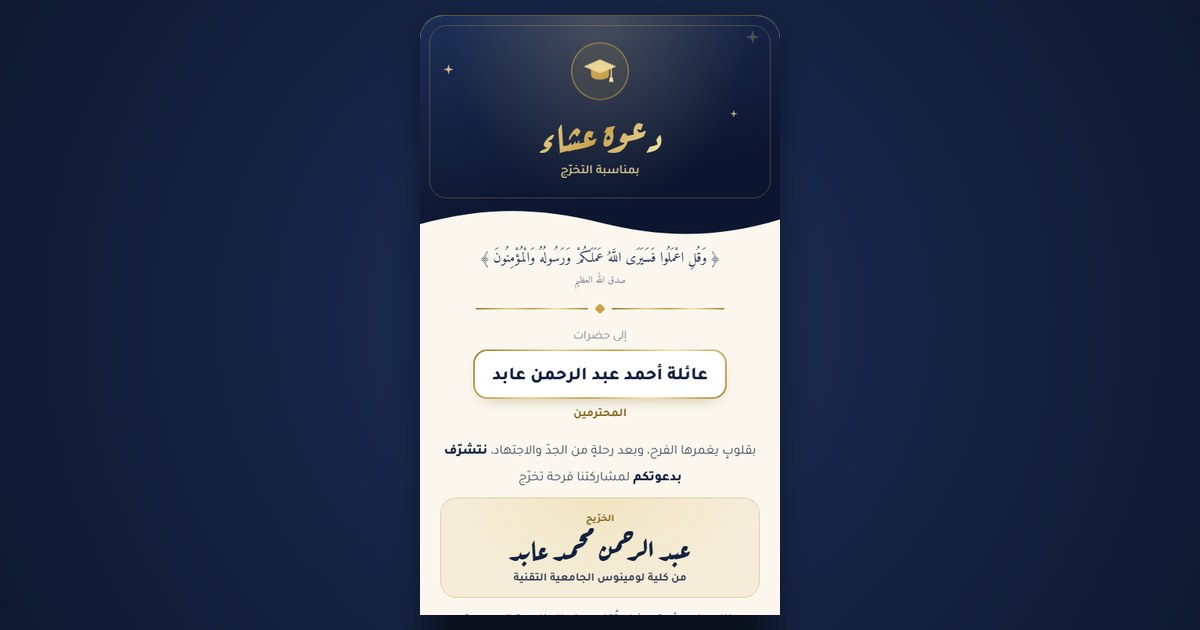
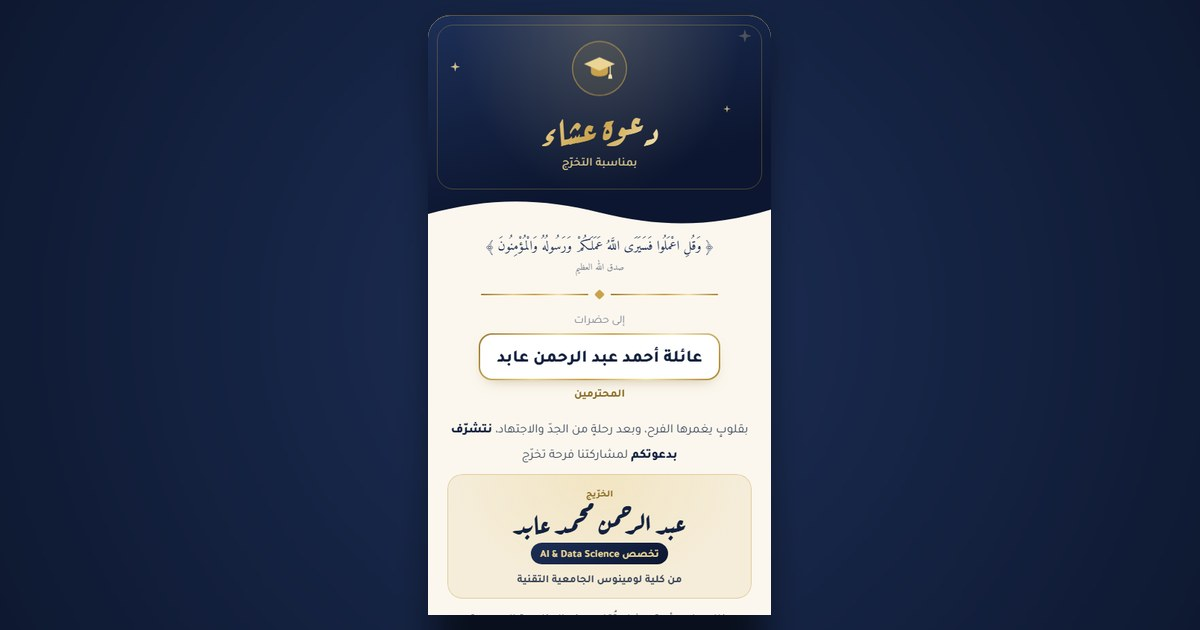
Add graduate major to invitation card

diff --git a/index.html b/index.html
@@ -193,6 +193,15 @@
       line-height: 1.45;
       color: var(--ink);
     }
+    .grad-major {
+      display: inline-block;
+      margin: 2px 0 8px;
+      padding: 4px 12px;
+      border-radius: 999px;
+      font-size: .88rem; font-weight: 700;
+      color: var(--gold-light);
+      background: linear-gradient(150deg, var(--navy-700), var(--navy-900));
+    }
     .grad-from { display: block; font-size: .92rem; font-weight: 700; color: var(--text); }
 
     /* التفاصيل */
@@ -381,6 +390,8 @@
         <span class="grad-label">الخرّيج</span>
         <!-- ✏ اسم الخرّيج -->
         <p class="grad-name">عبد الرحمن محمد عابد</p>
+        <!-- ✏ التخصص -->
+        <span class="grad-major">تخصص <bdi dir="ltr">AI &amp; Data Science</bdi></span>
         <span class="grad-from">من كلية لومينوس الجامعية التقنية</span>
       </div>
 
